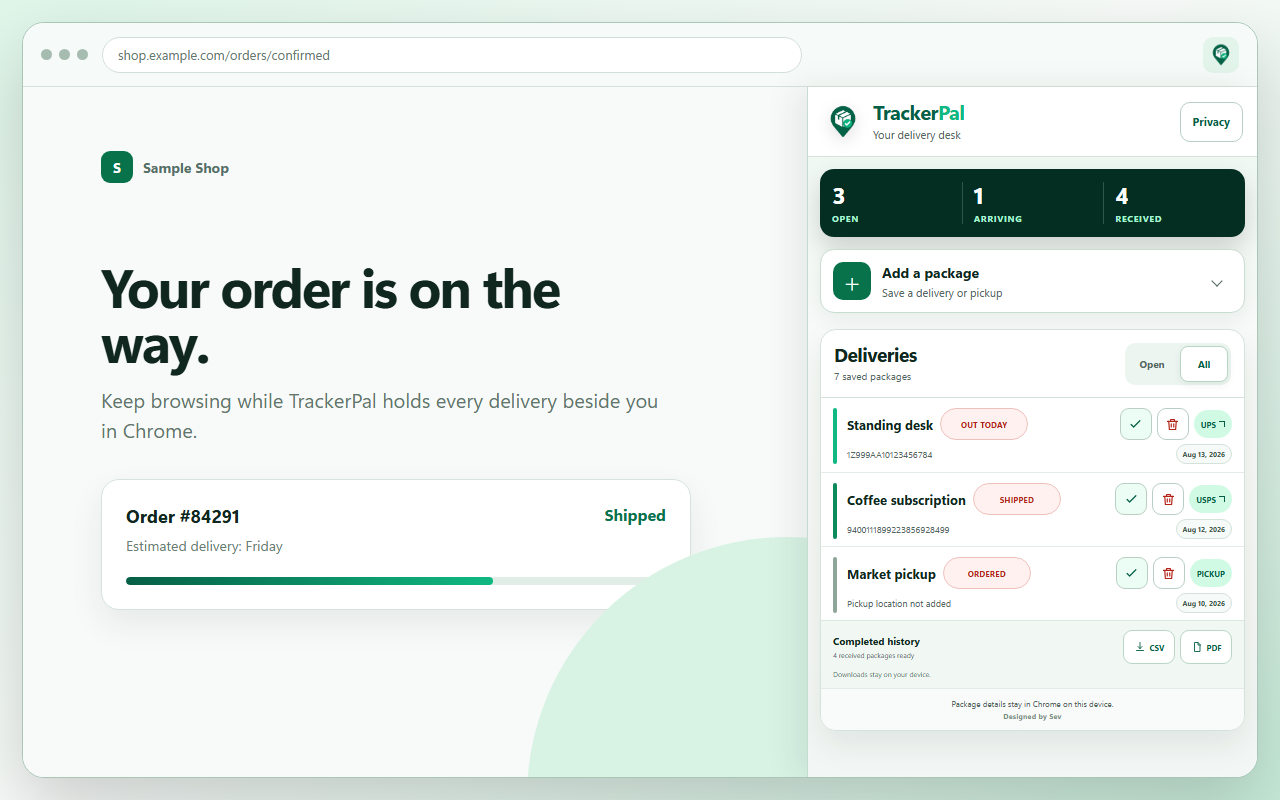
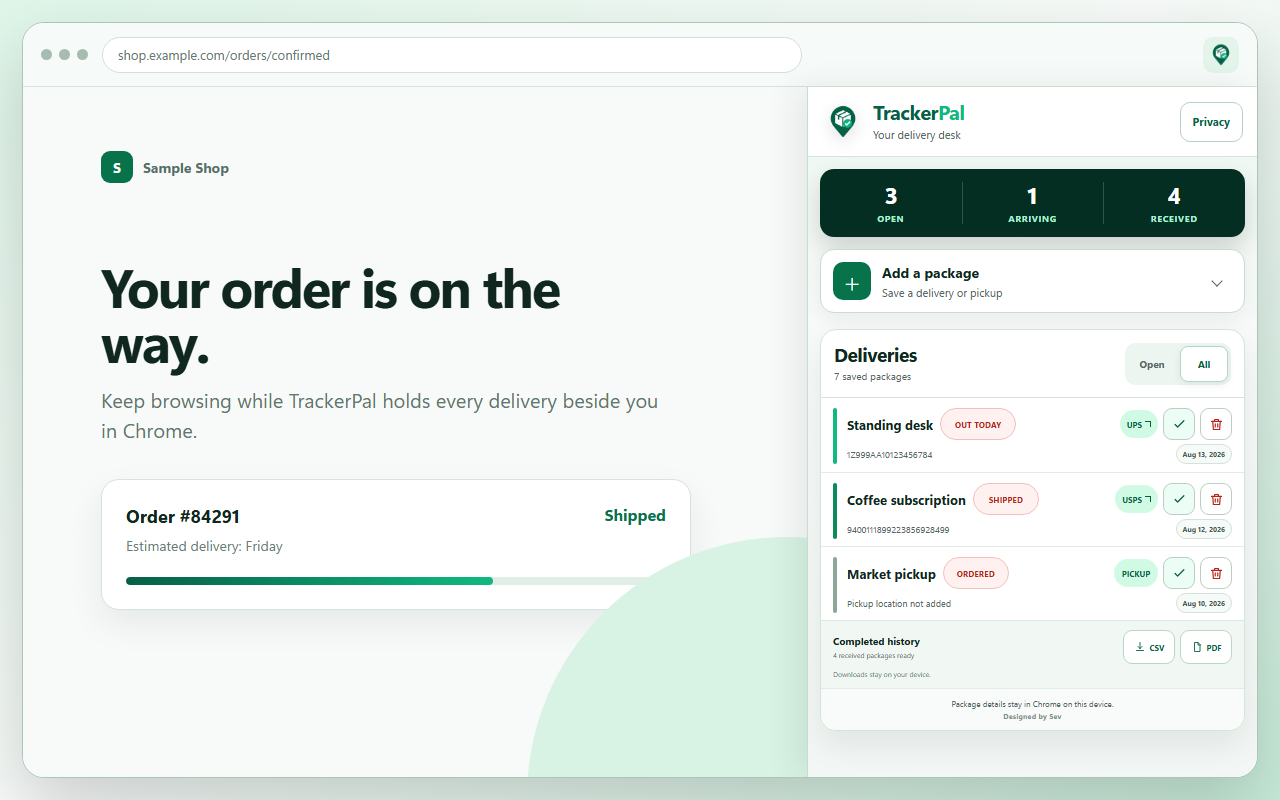
Center controls and fix Gmail approval

diff --git a/store-assets/source/screenshot-dashboard.html b/store-assets/source/screenshot-dashboard.html
@@ -40,7 +40,7 @@
       .panel-body { padding: 12px; }
 
       .stats { height: 68px; display: grid; grid-template-columns: repeat(3,1fr); overflow: hidden; border-radius: 14px; background: #052e23; box-shadow: 0 12px 26px rgba(0,0,0,.16); }
-      .stat { position: relative; padding: 14px 12px 13px; }
+      .stat { position: relative; padding: 14px 12px 13px; text-align: center; }
       .stat + .stat::before { content: ""; position: absolute; inset: 13px auto 13px 0; width: 1px; background: rgba(209,250,229,.2); }
       .stat b { display: block; color: #fff; font-size: 23px; line-height: 1; }
       .stat span { display: block; margin-top: 6px; color: #a7f3d0; font-size: 9px; font-weight: 780; letter-spacing: .075em; text-transform: uppercase; }
@@ -73,11 +73,14 @@
       .package small { min-width: 0; flex: 1; display: block; overflow: hidden; color: #52685e; text-overflow: ellipsis; white-space: nowrap; font-size: 9px; }
       .date { height: 20px; display: flex; align-items: center; flex: 0 0 auto; padding: 0 6px; border: 1px solid #d4e2da; border-radius: 99px; color: #3d574b; background: #f6faf8; font-size: 7px; font-weight: 720; }
       .package-tools { flex: 0 0 auto; display: flex; align-items: center; gap: 5px; margin-left: auto; }
-      .status { width: 88px; height: 32px; display: flex; align-items: center; justify-content: center; padding: 0 8px; border: 1px solid #efc1bc; border-radius: 99px; color: #b42318; background: #fff1f0; font-size: 8px; font-weight: 800; letter-spacing: .02em; text-transform: uppercase; }
+      .status { width: 72px; height: 32px; display: flex; align-items: center; justify-content: center; padding: 0 6px; border: 1px solid #efc1bc; border-radius: 99px; color: #b42318; background: #fff1f0; font-size: 8px; font-weight: 800; letter-spacing: .02em; text-align: center; text-transform: uppercase; }
+      .status.short { width: 66px; }
+      .status.long { width: 76px; }
       .compact { width: 32px; height: 32px; display: grid; place-items: center; border: 1px solid #b9cfc3; border-radius: 9px; color: #065f46; background: #ecfdf5; }
       .compact.delete { color: #b42318; background: #fff; }
       .compact svg { width: 15px; height: 15px; fill: none; stroke: currentColor; stroke-width: 1.9; stroke-linecap: round; stroke-linejoin: round; }
       .carrier { height: 28px; display: flex; align-items: center; gap: 3px; flex: 0 0 auto; padding: 0 7px; border-radius: 99px; color: #065f46; background: #d1fae5; font-size: 8px; font-weight: 800; text-transform: uppercase; }
+      .carrier.static { min-width: 44px; padding-inline: 6px; letter-spacing: 0; justify-content: center; text-align: center; }
       .carrier i { width: 6px; height: 6px; border-top: 1.4px solid currentColor; border-right: 1.4px solid currentColor; }
       .export { display: grid; grid-template-columns: minmax(0,1fr) auto; align-items: center; gap: 5px 10px; padding: 9px 12px; border-top: 1px solid #d9e8e0; background: #f1f8f4; }
       .export-copy b, .export-copy small { display: block; }
@@ -135,15 +138,15 @@
               </div>
               <article class="package">
                 <span class="marker"></span>
-                <div class="package-main"><div class="package-mainline"><span class="package-title"><b>Standing desk</b></span><span class="status">Out today</span><span class="package-tools"><span class="compact"><svg viewBox="0 0 24 24"><path d="m5 12 4 4L19 6"/></svg></span><span class="compact delete"><svg viewBox="0 0 24 24"><path d="M4 7h16M9 7V4h6v3m3 0-1 13H7L6 7m4 4v5m4-5v5"/></svg></span><span class="carrier">UPS<i></i></span></span></div><span class="package-meta"><small>1Z999AA10123456784</small><span class="date">Aug 13, 2026</span></span></div>
+                <div class="package-main"><div class="package-mainline"><span class="package-title"><b>Standing desk</b></span><span class="status long">Out today</span><span class="package-tools"><span class="carrier">UPS<i></i></span><span class="compact"><svg viewBox="0 0 24 24"><path d="m5 12 4 4L19 6"/></svg></span><span class="compact delete"><svg viewBox="0 0 24 24"><path d="M4 7h16M9 7V4h6v3m3 0-1 13H7L6 7m4 4v5m4-5v5"/></svg></span></span></div><span class="package-meta"><small>1Z999AA10123456784</small><span class="date">Aug 13, 2026</span></span></div>
               </article>
               <article class="package shipped">
                 <span class="marker"></span>
-                <div class="package-main"><div class="package-mainline"><span class="package-title"><b>Coffee subscription</b></span><span class="status">Shipped</span><span class="package-tools"><span class="compact"><svg viewBox="0 0 24 24"><path d="m5 12 4 4L19 6"/></svg></span><span class="compact delete"><svg viewBox="0 0 24 24"><path d="M4 7h16M9 7V4h6v3m3 0-1 13H7L6 7m4 4v5m4-5v5"/></svg></span><span class="carrier">USPS<i></i></span></span></div><span class="package-meta"><small>9400111899223856928499</small><span class="date">Aug 12, 2026</span></span></div>
+                <div class="package-main"><div class="package-mainline"><span class="package-title"><b>Coffee subscription</b></span><span class="status short">Shipped</span><span class="package-tools"><span class="carrier">USPS<i></i></span><span class="compact"><svg viewBox="0 0 24 24"><path d="m5 12 4 4L19 6"/></svg></span><span class="compact delete"><svg viewBox="0 0 24 24"><path d="M4 7h16M9 7V4h6v3m3 0-1 13H7L6 7m4 4v5m4-5v5"/></svg></span></span></div><span class="package-meta"><small>9400111899223856928499</small><span class="date">Aug 12, 2026</span></span></div>
               </article>
               <article class="package ordered">
                 <span class="marker"></span>
-                <div class="package-main"><div class="package-mainline"><span class="package-title"><b>Market pickup</b></span><span class="status">Ordered</span><span class="package-tools"><span class="compact"><svg viewBox="0 0 24 24"><path d="m5 12 4 4L19 6"/></svg></span><span class="compact delete"><svg viewBox="0 0 24 24"><path d="M4 7h16M9 7V4h6v3m3 0-1 13H7L6 7m4 4v5m4-5v5"/></svg></span><span class="carrier">Pickup</span></span></div><span class="package-meta"><small>Pickup location not added</small><span class="date">Aug 10, 2026</span></span></div>
+                <div class="package-main"><div class="package-mainline"><span class="package-title"><b>Market pickup</b></span><span class="status short">Ordered</span><span class="package-tools"><span class="carrier static">Pickup</span><span class="compact"><svg viewBox="0 0 24 24"><path d="m5 12 4 4L19 6"/></svg></span><span class="compact delete"><svg viewBox="0 0 24 24"><path d="M4 7h16M9 7V4h6v3m3 0-1 13H7L6 7m4 4v5m4-5v5"/></svg></span></span></div><span class="package-meta"><small>Pickup location not added</small><span class="date">Aug 10, 2026</span></span></div>
               </article>
               <div class="export">
                 <span class="export-copy"><b>Completed history</b><small>4 received packages ready</small></span>

diff --git a/tests/extension.test.js b/tests/extension.test.js
@@ -39,6 +39,7 @@ assert.doesNotMatch(storeMarkup, /<iframe\b|script\.google\.com|googleuserconten
 assert.match(storeMarkup, /privacyConsent/, "Store UI requires first-run privacy consent");
 assert.match(storeMarkup, /tracking number in the carrier URL/i, "Store UI discloses carrier transfer before use");
 const personalMarkup = fs.readFileSync(path.join(root, "sidepanel.html"), "utf8");
+assert.match(personalMarkup, /id="openButton"[^>]+aria-label="Open TrackerPal in a full tab to review Google permissions"[^>]*>Open &amp; approve<\/button>/, "personal Gmail view provides a clear full-tab permission path");
 for (const [name, markup] of [["personal", personalMarkup], ["Store", storeMarkup]]) {
   assert.match(markup, /<html lang="en">/, `${name} side panel declares its language`);
   assert.match(markup, /name="viewport"/, `${name} side panel declares a mobile viewport`);
@@ -61,11 +62,13 @@ assert.match(packagesSource, /privacyConsentVersion/, "consent choice is persist
 assert.match(packagesSource, /chrome\.storage\.local/, "package data is stored locally");
 assert.match(packagesSource, /role="listitem"/, "rendered deliveries expose list-item semantics");
 assert.match(packagesSource, /event\.target\.closest\("\[data-action\]"\)/, "nested delivery button icons keep delegated actions working");
-assert.match(packagesSource, /class="status-control"/, "delivery status uses a compact editable control");
+assert.match(packagesSource, /class="status-control \$\{statusClass\(entry\.status\)\}"/, "delivery status uses a state-sized editable control");
 assert.doesNotMatch(packagesSource, /class="status-edit"/, "status stays clean without a redundant pencil icon");
-assert.match(packagesSource, /package-title[^`]+<\/div>\s*<div class="status-control">/, "status pill follows and visually hugs the package title");
+assert.match(packagesSource, /package-title[^`]+<\/div>\s*<div class="status-control \$\{statusClass\(entry\.status\)\}">/, "status pill follows and visually hugs the package title");
 assert.match(packagesSource, /class="compact-action received-button/, "received actions stay compact in dense lists");
 assert.match(packagesSource, /class="compact-action delete-button/, "delete actions stay compact in dense lists");
+assert.match(packagesSource, /class="carrier-pill carrier-static"/, "text-only carrier pills use dedicated optical centering");
+assert.ok(packagesSource.indexOf('class="carrier-pill carrier-track"') < packagesSource.indexOf('class="compact-action received-button'), "carrier appears before receive and delete controls in each action group");
 assert.match(packagesSource, /aria-label="Track \$\{item\} with/, "carrier tracking buttons name their package and carrier");
 assert.match(packagesSource, /pickup \? "Address \(optional\)" : "Tracking number"/, "Pickup relabels the tracking field as an optional address");
 assert.match(packagesSource, /trackingInput\.required = !pickup/, "Pickup makes the address optional while shipped packages still require tracking numbers");
@@ -89,14 +92,20 @@ for (const [name, cssPath] of [["personal", path.join(root, "sidepanel.css")], [
   assert.match(css, /\.package-row\s*\{/, `${name} renders deliveries as a clean row list`);
   assert.match(css, /grid-template-columns:\s*4px minmax\(0, 1fr\)/, `${name} keeps delivery details in a compact connected row`);
   assert.match(css, /\.status-control select\s*\{[\s\S]*?border-radius:\s*999px[\s\S]*?color:\s*var\(--danger\)/, `${name} renders status as a red editable pill`);
-  assert.match(css, /\.package-toolbar\s*\{[^}]*margin-left:\s*auto/, `${name} keeps receive, delete, and carrier actions aligned at the right edge`);
+  assert.match(css, /\.status-control\.status-ordered[^}]*width:\s*66px/, `${name} removes excess padding from short status pills`);
+  assert.match(css, /\.status-control select\s*\{[^}]*text-align:\s*center;[^}]*text-align-last:\s*center/, `${name} centers native status text consistently`);
+  assert.match(css, /\.package-toolbar\s*\{[^}]*margin-left:\s*auto/, `${name} keeps carrier, receive, and delete actions aligned at the right edge`);
   assert.match(css, /\.compact-action\s*\{[\s\S]*?width:\s*32px[\s\S]*?height:\s*32px/, `${name} uses tidy icon actions for dense delivery lists`);
   assert.match(css, /button\.carrier-pill/, `${name} makes the compact carrier pill the tracking action`);
+  assert.match(css, /\.carrier-static\s*\{[^}]*letter-spacing:\s*0;[^}]*text-align:\s*center/, `${name} optically centers text-only carrier pills`);
+  assert.match(css, /\.stat\s*\{[^}]*text-align:\s*center/, `${name} centers every summary value and label in its column`);
   assert.match(css, /\.entry-date\s*\{/, `${name} presents the editable entry date as a compact row control`);
   assert.match(css, /\.entry-date:focus-within/, `${name} keeps the invisible native date input visibly focusable`);
   assert.match(css, /\.history-export\s*\{/, `${name} styles completed-history downloads as a distinct footer`);
   assert.match(css, /\.history-export\[hidden\]\s*\{\s*display:\s*none/, `${name} removes hidden export controls from the layout`);
   assert.match(css, /\.history-export-actions button\s*\{[^}]*min-height:\s*44px/, `${name} keeps export downloads easy to click`);
+  assert.match(css, /\.loading\s*\{[^}]*pointer-events:\s*none/, `${name} loading text cannot block embedded controls`);
+  assert.match(css, /\.loading\[hidden\]\s*\{\s*display:\s*none/, `${name} fully removes the finished loading layer`);
   assert.match(css, /:focus-visible/, `${name} preserves visible keyboard focus`);
   assert.match(css, /@media \(max-width: 390px\)/, `${name} adapts delivery rows for narrow side panels`);
   assert.match(css, /prefers-reduced-motion/, `${name} honors reduced-motion preferences`);

diff --git a/trackerpal-extension/store/sidepanel.css b/trackerpal-extension/store/sidepanel.css
@@ -107,7 +107,7 @@ main { min-height: calc(100vh - 70px); }
   background: var(--green-950);
   box-shadow: 0 12px 26px rgba(0, 0, 0, .16);
 }
-.stat { position: relative; min-width: 0; padding: 14px 12px 13px; }
+.stat { position: relative; min-width: 0; padding: 14px 12px 13px; text-align: center; }
 .stat + .stat::before { content: ""; position: absolute; inset: 13px auto 13px 0; width: 1px; background: rgba(209, 250, 229, .2); }
 .stat strong { display: block; color: #fff; font-size: 23px; line-height: 1; font-variant-numeric: tabular-nums; letter-spacing: -.025em; }
 .stat span { display: block; margin-top: 6px; color: var(--green-200); font-size: 9px; font-weight: 780; letter-spacing: .075em; text-transform: uppercase; }
@@ -205,7 +205,9 @@ main { min-height: calc(100vh - 70px); }
 .entry-date-display { display: inline-flex; align-items: center; padding: 0 7px; font-size: 8px; font-weight: 720; white-space: nowrap; }
 .entry-date-display time { font-variant-numeric: tabular-nums; }
 .package-toolbar { flex: 0 0 auto; display: flex; align-items: center; gap: 5px; margin-left: auto; }
-.status-control { position: relative; width: 88px; flex: 0 0 88px; color: var(--danger); }
+.status-control { position: relative; width: 72px; flex: 0 0 72px; color: var(--danger); }
+.status-control.status-ordered, .status-control.status-shipped { width: 66px; flex-basis: 66px; }
+.status-control.status-out-for-delivery { width: 76px; flex-basis: 76px; }
 .status-control select {
   width: 100%;
   height: 32px;
@@ -213,12 +215,14 @@ main { min-height: calc(100vh - 70px); }
   appearance: none;
   border: 1px solid #efc1bc;
   border-radius: 999px;
-  padding: 0 10px;
+  padding: 0 6px;
   color: var(--danger);
   background: var(--danger-soft);
   font-size: 9px;
   font-weight: 800;
   letter-spacing: .025em;
+  text-align: center;
+  text-align-last: center;
   text-transform: uppercase;
   cursor: pointer;
 }
@@ -230,6 +234,7 @@ main { min-height: calc(100vh - 70px); }
 .delete-button { color: var(--danger); background: #fff; }
 .delete-button:hover { border-color: #e2aaa5; color: #8f1b13; background: var(--danger-soft); }
 .carrier-pill { min-height: 28px; flex: 0 0 auto; display: inline-flex; align-items: center; justify-content: center; gap: 3px; border-radius: 999px; padding: 0 7px; color: var(--green-800); background: var(--green-100); font-size: 9px; font-weight: 800; letter-spacing: .035em; text-transform: uppercase; }
+.carrier-static { min-width: 44px; padding-inline: 6px; letter-spacing: 0; line-height: 1; text-align: center; }
 button.carrier-pill { min-height: 28px; border-color: transparent; box-shadow: none; }
 button.carrier-pill:hover { border-color: #91c7aa; background: #bdf4d8; transform: none; }
 .carrier-pill svg { width: 11px; height: 11px; fill: none; stroke: currentColor; stroke-width: 1.8; stroke-linecap: round; stroke-linejoin: round; }
@@ -289,7 +294,8 @@ button.carrier-pill:hover { border-color: #91c7aa; background: #bdf4d8; transfor
 .sync-stage { position: relative; min-height: calc(100vh - 194px); }
 iframe { width: 100%; height: calc(100vh - 194px); border: 0; background: #f8faf9; }
 .loading, .notice { position: absolute; inset: 0; place-content: center; text-align: center; padding: 28px; }
-.loading { display: grid; color: var(--muted); }
+.loading { display: grid; color: var(--muted); pointer-events: none; }
+.loading[hidden] { display: none; }
 .notice { background: #f8faf9; }
 .notice:not([hidden]) { display: grid; }
 .notice strong { font-size: 20px; }
@@ -303,8 +309,7 @@ iframe { width: 100%; height: calc(100vh - 194px); border: 0; background: #f8faf
   .package-row { gap: 9px; padding-inline: 10px; }
   .package-mainline { gap: 6px; }
   .package-toolbar { gap: 4px; }
-  .status-control { width: 82px; flex-basis: 82px; }
-  .status-control select { padding-inline: 8px; font-size: 8px; }
+  .status-control select { padding-inline: 5px; font-size: 8px; }
   .compact-action { width: 30px; min-width: 30px; height: 30px; min-height: 30px; }
   .carrier-pill { padding-inline: 6px; }
   .package-meta { gap: 5px; }

diff --git a/trackerpal-extension/sidepanel.css b/trackerpal-extension/sidepanel.css
@@ -93,7 +93,7 @@ main { min-height: calc(100vh - 70px); }
   background: var(--green-950);
   box-shadow: 0 12px 26px rgba(0, 0, 0, .16);
 }
-.stat { position: relative; min-width: 0; padding: 14px 12px 13px; }
+.stat { position: relative; min-width: 0; padding: 14px 12px 13px; text-align: center; }
 .stat + .stat::before { content: ""; position: absolute; inset: 13px auto 13px 0; width: 1px; background: rgba(209, 250, 229, .2); }
 .stat strong { display: block; color: #fff; font-size: 23px; line-height: 1; font-variant-numeric: tabular-nums; letter-spacing: -.025em; }
 .stat span { display: block; margin-top: 6px; color: var(--green-200); font-size: 9px; font-weight: 780; letter-spacing: .075em; text-transform: uppercase; }
@@ -191,7 +191,9 @@ main { min-height: calc(100vh - 70px); }
 .entry-date-display { display: inline-flex; align-items: center; padding: 0 7px; font-size: 8px; font-weight: 720; white-space: nowrap; }
 .entry-date-display time { font-variant-numeric: tabular-nums; }
 .package-toolbar { flex: 0 0 auto; display: flex; align-items: center; gap: 5px; margin-left: auto; }
-.status-control { position: relative; width: 88px; flex: 0 0 88px; color: var(--danger); }
+.status-control { position: relative; width: 72px; flex: 0 0 72px; color: var(--danger); }
+.status-control.status-ordered, .status-control.status-shipped { width: 66px; flex-basis: 66px; }
+.status-control.status-out-for-delivery { width: 76px; flex-basis: 76px; }
 .status-control select {
   width: 100%;
   height: 32px;
@@ -199,12 +201,14 @@ main { min-height: calc(100vh - 70px); }
   appearance: none;
   border: 1px solid #efc1bc;
   border-radius: 999px;
-  padding: 0 10px;
+  padding: 0 6px;
   color: var(--danger);
   background: var(--danger-soft);
   font-size: 9px;
   font-weight: 800;
   letter-spacing: .025em;
+  text-align: center;
+  text-align-last: center;
   text-transform: uppercase;
   cursor: pointer;
 }
@@ -216,6 +220,7 @@ main { min-height: calc(100vh - 70px); }
 .delete-button { color: var(--danger); background: #fff; }
 .delete-button:hover { border-color: #e2aaa5; color: #8f1b13; background: var(--danger-soft); }
 .carrier-pill { min-height: 28px; flex: 0 0 auto; display: inline-flex; align-items: center; justify-content: center; gap: 3px; border-radius: 999px; padding: 0 7px; color: var(--green-800); background: var(--green-100); font-size: 9px; font-weight: 800; letter-spacing: .035em; text-transform: uppercase; }
+.carrier-static { min-width: 44px; padding-inline: 6px; letter-spacing: 0; line-height: 1; text-align: center; }
 button.carrier-pill { min-height: 28px; border-color: transparent; box-shadow: none; }
 button.carrier-pill:hover { border-color: #91c7aa; background: #bdf4d8; transform: none; }
 .carrier-pill svg { width: 11px; height: 11px; fill: none; stroke: currentColor; stroke-width: 1.8; stroke-linecap: round; stroke-linejoin: round; }
@@ -275,7 +280,8 @@ button.carrier-pill:hover { border-color: #91c7aa; background: #bdf4d8; transfor
 .sync-stage { position: relative; min-height: calc(100vh - 194px); }
 iframe { width: 100%; height: calc(100vh - 194px); border: 0; background: #f8faf9; }
 .loading, .notice { position: absolute; inset: 0; place-content: center; text-align: center; padding: 28px; }
-.loading { display: grid; color: var(--muted); }
+.loading { display: grid; color: var(--muted); pointer-events: none; }
+.loading[hidden] { display: none; }
 .notice { background: #f8faf9; }
 .notice:not([hidden]) { display: grid; }
 .notice strong { font-size: 20px; }
@@ -289,8 +295,7 @@ iframe { width: 100%; height: calc(100vh - 194px); border: 0; background: #f8faf
   .package-row { gap: 9px; padding-inline: 10px; }
   .package-mainline { gap: 6px; }
   .package-toolbar { gap: 4px; }
-  .status-control { width: 82px; flex-basis: 82px; }
-  .status-control select { padding-inline: 8px; font-size: 8px; }
+  .status-control select { padding-inline: 5px; font-size: 8px; }
   .compact-action { width: 30px; min-width: 30px; height: 30px; min-height: 30px; }
   .carrier-pill { padding-inline: 6px; }
   .package-meta { gap: 5px; }

diff --git a/trackerpal-extension/packages.js b/trackerpal-extension/packages.js
@@ -130,15 +130,15 @@
         <div class="package-content">
           <div class="package-mainline">
             <div class="package-title"><strong title="${item}">${item}</strong></div>
-            <div class="status-control">
+            <div class="status-control ${statusClass(entry.status)}">
               <select data-action="status" aria-label="Change status for ${item}" title="Change status">
                 ${statuses.map((status) => `<option value="${status}" ${status === entry.status ? "selected" : ""}>${statusLabel(status)}</option>`).join("")}
               </select>
             </div>
             <div class="package-toolbar">
+              ${url ? `<button class="carrier-pill carrier-track" type="button" data-action="track" data-url="${escapeHtml(url)}" aria-label="Track ${item} with ${escapeHtml(entry.carrier)}" title="Track with ${escapeHtml(entry.carrier)}"><span>${escapeHtml(entry.carrier)}</span><svg viewBox="0 0 24 24" aria-hidden="true"><path d="M8 16 16 8m-6 0h6v6"/></svg></button>` : `<span class="carrier-pill carrier-static">${escapeHtml(entry.carrier)}</span>`}
               <button class="compact-action received-button ${entry.received ? "done" : ""}" type="button" data-action="received" aria-label="${entry.received ? "Reopen" : "Mark"} ${item}${entry.received ? "" : " received"}" aria-pressed="${entry.received}" title="${entry.received ? "Reopen package" : "Mark received"}"><svg viewBox="0 0 24 24" aria-hidden="true"><path d="m5 12 4 4L19 6"/></svg></button>
               <button class="compact-action delete-button" type="button" data-action="delete" aria-label="Delete ${item}" title="Delete package"><svg viewBox="0 0 24 24" aria-hidden="true"><path d="M4 7h16M9 7V4h6v3m3 0-1 13H7L6 7m4 4v5m4-5v5"/></svg></button>
-              ${url ? `<button class="carrier-pill carrier-track" type="button" data-action="track" data-url="${escapeHtml(url)}" aria-label="Track ${item} with ${escapeHtml(entry.carrier)}" title="Track with ${escapeHtml(entry.carrier)}"><span>${escapeHtml(entry.carrier)}</span><svg viewBox="0 0 24 24" aria-hidden="true"><path d="M8 16 16 8m-6 0h6v6"/></svg></button>` : `<span class="carrier-pill">${escapeHtml(entry.carrier)}</span>`}
             </div>
           </div>
           <div class="package-meta">

diff --git a/trackerpal-extension/sidepanel.html b/trackerpal-extension/sidepanel.html
@@ -104,7 +104,7 @@
       <section class="synced-view" id="syncedView" hidden>
         <div class="synced-toolbar">
           <button id="reloadButton" type="button">Refresh</button>
-          <button class="primary" id="openButton" type="button">Open full page</button>
+          <button class="primary" id="openButton" type="button" aria-label="Open TrackerPal in a full tab to review Google permissions">Open &amp; approve</button>
         </div>
         <div class="sync-stage">
           <div class="loading" id="loading" role="status">Connecting securely to TrackerPal…</div>

diff --git a/docs/SUPPORT.md b/docs/SUPPORT.md
@@ -7,6 +7,7 @@ TrackerPal is a local package tracker for Chrome's side panel.
 - **The side panel does not open:** Update Chrome to version 114 or newer, then click the TrackerPal toolbar icon again.
 - **A carrier is not detected:** Choose the carrier manually when adding the package.
 - **A tracking page does not open:** Check that the tracking number is complete, then try the carrier's official website directly.
+- **Google shows Review permissions:** Click **Open & approve** in TrackerPal, finish Google's permission review in the full Chrome tab, then return to the side panel and click **Refresh**.
 - **Reset TrackerPal:** Open the **Privacy** link in TrackerPal and choose **Delete all TrackerPal data**.
 
 ## Get help

diff --git a/CHANGELOG.md b/CHANGELOG.md
@@ -2,6 +2,13 @@
 
 All notable changes to TrackerPal will be documented in this file.
 
+## 0.4.3 - 2026-08-13
+
+- Centered summary values and labels within their three equal-width columns.
+- Centered text-only carrier pills and tightened short status pills so labels no longer sit against excess right padding.
+- Reordered dense delivery actions to carrier, Receive, then Delete for a cleaner right-edge group.
+- Fixed the hidden Gmail loading layer so it cannot cover Google's permission controls, and clarified the full-tab approval path.
+
 ## 0.4.2 - 2026-08-13
 
 - Removed redundant pencil icons from the clickable status and entry-date controls.

diff --git a/README.md b/README.md
@@ -87,6 +87,8 @@ In the Apps Script editor, run these functions in order:
 
 Google will ask for Gmail, Sheets, trigger, and email-send permissions during first setup. Because TrackerPal is a private Apps Script app rather than a published Marketplace app, Google may show an unverified-app warning for the owner account.
 
+If that permission screen appears inside TrackerPal's side panel, use **Open & approve** to finish the Google review in a full Chrome tab, return to TrackerPal, and click **Refresh**.
+
 ## Project Layout
 
 | Path | Purpose |

diff --git a/docs/CHROME_WEB_STORE.md b/docs/CHROME_WEB_STORE.md
@@ -83,7 +83,7 @@ Run `npm run build:store`. The resulting ZIP contains only the native side-panel
 
 ## Upload assets
 
-- Package: `dist/trackerpal-chrome-store-v0.4.2.zip`
+- Package: `dist/trackerpal-chrome-store-v0.4.3.zip`
 - Store icon: `store-assets/icon-128x128.png`
 - Screenshot: `store-assets/screenshot-01-side-panel-1280x800.png`
 - Small promotional tile: `store-assets/promo-small-440x280.png`
